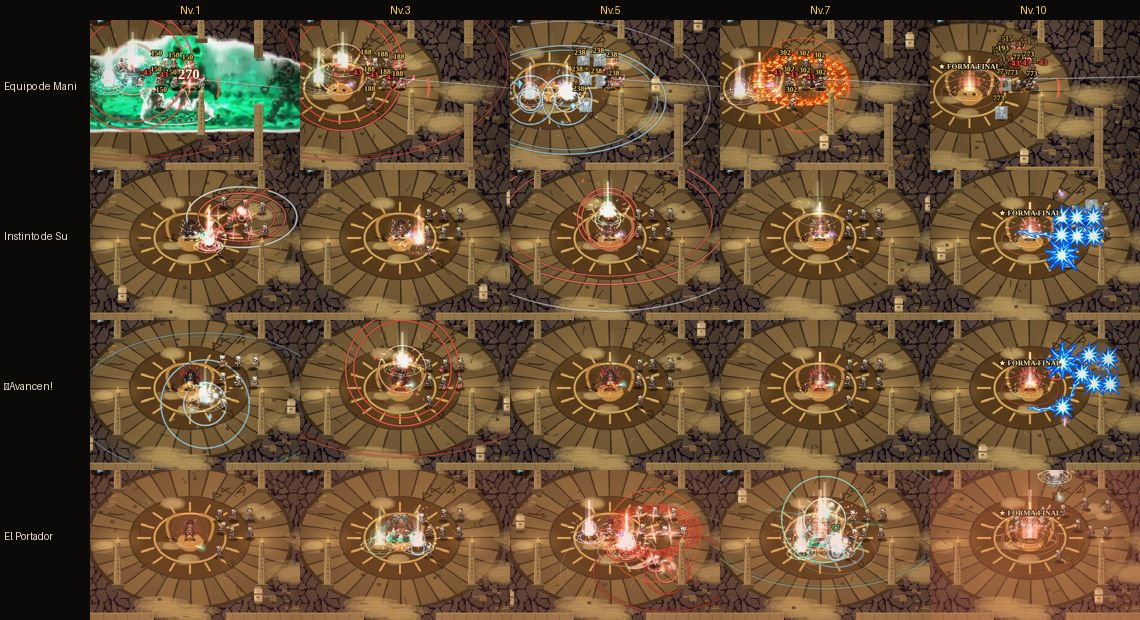
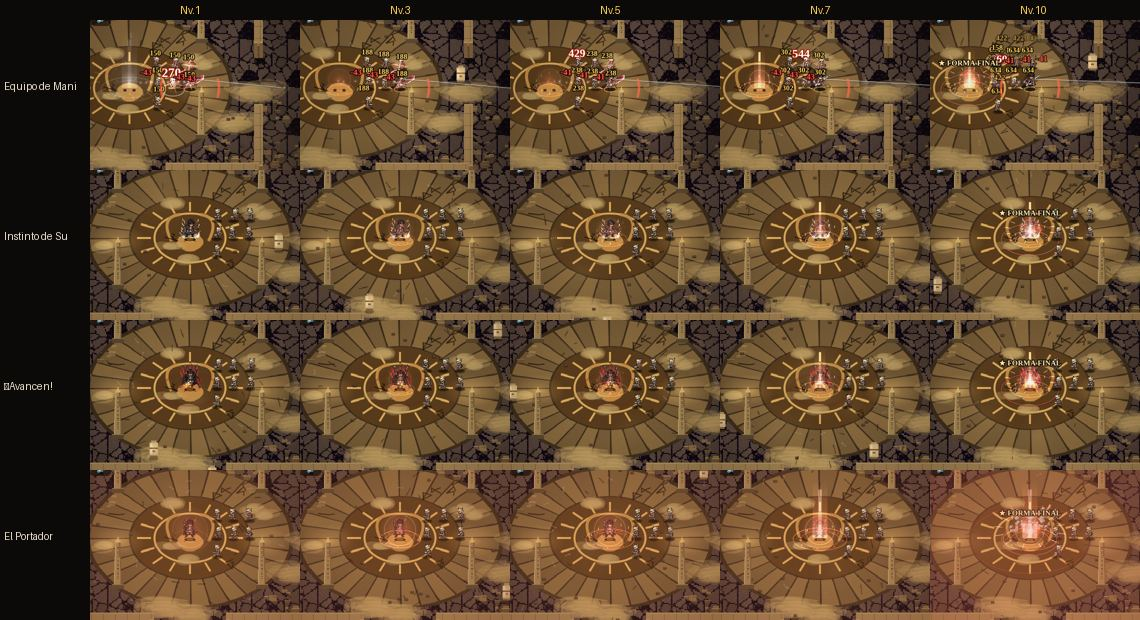
Review de dirección de arte + impacto que crece con el nivel
- LA_HORDA_ART_DIRECTION_REVIEW.md: veredicto con notas por área contra referencias comerciales,
  los 12 problemas más graves con arreglo y costo, crítica por arena y por campeón (playtest de las
  48 habilidades en Nv. 1/3/5/7/10), benchmarks, hoja de ruta P0/P1/P2 y lista de arte que falta.
- Capturas de la review en docs/playtest/review/ y hojas de evolución limpias (sin bots) en
  docs/playtest/evolucion/.
- Golpe de habilidad: anillo del color del campeón en el enemigo que crece por hito (tope de 6 por
  campeón cada 100 ms), para las habilidades cuyo efecto es el golpe y no el lanzamiento.
- Herramienta de playtest: saca a los bots aliados de las capturas.
- Regresión: t_func 91/91, t_camera 72/72, 13 suites de sistemas en verde; dibujo ~2,3 ms en la pelea final.

Claude-Session: https://claude.ai/code/session_01BvHcdVCqR9FGKyD6cnfJDt

diff --git a/js/systems/skill-evolution.js b/js/systems/skill-evolution.js
@@ -105,6 +105,18 @@ function skillEvoOnHit(src, e, dmg, opts){
   const ev = _evoActive(src, opts); if(!ev || ev.lvl < 3) return;
   e._evoHitBy = src; e._evoHitAt = runElapsedMs;
   const sig = evoSigFor(src, ev.sk);
+  // IMPACTO QUE CRECE CON EL NIVEL (playtest de evolución: las habilidades de golpe directo -Corte
+  // Sangrante, Triple Golpe, Flecha Perforante- se veían iguales del Nv.1 al 7 porque su efecto es
+  // el golpe, no el lanzamiento). Anillo del color del campeón en el enemigo: más grande y con más
+  // capas en cada hito. Un impacto por enemigo cada 180 ms (no satura con golpes múltiples).
+  const win = (runElapsedMs/100)|0; if(src._evoFxWin !== win){ src._evoFxWin = win; src._evoFxN = 0; } // tope: 6 impactos por campeón cada 100 ms
+  if(inView(e.x, e.y, 40) && (e._evoFxAt===undefined || runElapsedMs - e._evoFxAt > 180) && src._evoFxN++ < 6){
+    e._evoFxAt = runElapsedMs;
+    const rgb = hexToRgb(src.cls.glow||"#ffffff"), T = ev.lvl >= 10 ? 5 : ev.lvl >= 7 ? 4 : ev.lvl >= 5 ? 3 : 2, pr = src===player ? 1 : 0;
+    vfxShock(e.x, e.y - 10, 4, 14 + T*9, rgb, 200 + T*30, pr);
+    if(T >= 3) vfxBurst(e.x, e.y - 18, 3 + T*2, "t_" + (src.cls.glow||"#ffffff"), 90 + T*20, 300, 2.5, pr, -30, 2);
+    if(T >= 4) vfxShock(e.x, e.y - 10, 8, 20 + T*8, "255,255,255", 180, pr);
+  }
   // Nv.7 Resonancia: el enemigo ya tenía tu firma -> estalla (mira el estado ANTES de renovarlo)
   if(ev.lvl >= 7 && e.alive && evoHasSig(e, sig, src) && (src._evoResoAt===undefined || runElapsedMs - src._evoResoAt > EVO_CFG.resoIcd)){
     src._evoResoAt = runElapsedMs;

diff --git a/tools/playtest/shot_evolution.js b/tools/playtest/shot_evolution.js
@@ -24,7 +24,7 @@ const sleep = ms => new Promise(r => setTimeout(r, ms));
           for (const i of [0,1,2]) c.skillMastery[i].alloc = lvl; c.ultMastery.alloc = lvl;
           selectedClass = ck; currentArena = 'laberinto'; lobbyAllies = []; startRun(4); spawnTimer = 1e12; enemies.length = 0; levelDuration = 9e9;
           for (const id of ['arena-title-card','tut-panel','center-banner','boss-intro']) { const el=document.getElementById(id); if(el) el.style.display='none'; }
-          heroes.length = 1; // solo el campeón: nada tapa el efecto
+          heroes.length = 1; if (typeof allies!=='undefined') allies.length = 0; // solo el campeón: sin bots que lancen lo suyo
           player.energy = 9999; player.fx = 1; player.fy = 0;
           const foes = []; for (let i = 0; i < 7; i++){ const e = spawnEnemy('esqueleto', false); e.x = player.x + 90 + (i%3)*55; e.y = player.y - 60 + Math.floor(i/3)*60; e.hp = e.maxHp = 1e7; e.speed = 0; foes.push(e); }
           // evolución Nv.10: la 3ra lanzada sale potenciada -> lanzar 2 veces antes (sin capturar)

diff --git a/LA_HORDA_ART_DIRECTION_REVIEW.md b/LA_HORDA_ART_DIRECTION_REVIEW.md
@@ -1,0 +1,226 @@
+# LA HORDA — Review de Dirección de Arte (crítica fuerte)
+
+> Escrita como director del departamento de arte visual, con la vara de un juego que quiere salir como
+> indie y competir con juegos comerciales grandes, y después convertirse en un MOBA.
+> Basada en capturas reales del juego en celular horizontal (844×390, DPR 2): las 7 arenas, el jefe final,
+> los gólems, y **las 48 habilidades de los 12 campeones en Nv. 1/3/5/7/10** (hojas en
+> `docs/playtest/evolucion/`, herramienta `tools/playtest/shot_evolution.js`).
+> Capturas de esta review: `docs/playtest/review/`.
+
+---
+
+## 0. Veredicto en una página
+
+**Hoy La Horda es un prototipo con sistemas de juego comercial y una imagen de juego amateur.** El código
+tiene profundidad real (reacciones, roles, jefes con fases, red, evolución de habilidades), pero la
+pantalla no lo vende: en una captura cualquiera, un jugador nuevo no distingue en 2 segundos quién es él,
+qué le va a pegar y qué acaba de hacer su habilidad. Esa es la vara de Hades, Brotato o Wild Rift, y hoy
+no la pasamos.
+
+| Área | Nota (1–10) | Referencia comercial | Qué nos separa |
+|---|---|---|---|
+| Lectura del combate (figura/fondo) | **5** | Hades 9, Vampire Survivors 8 | Pisos con mucho detalle, enemigos del mismo valor que el piso, texto flotante encima de todo |
+| Coherencia de estilo de sprites | **4** | Dead Cells 9 | Densidades de píxel y luz distintas entre campeones, enemigos y jefes |
+| Identidad de arenas | **6** (antes 4) | Hades 9 | Mejoraron con muros y color propio, pero son pisos repetidos + utilería, no lugares pintados |
+| VFX de habilidades | **6** | Diablo IV 9, LoL 9 | El Mago y la Soporte escalan bien; el Asesino y la Cazadora casi no cambian del Nv.1 al 7 |
+| Jefes | **6** | Diablo IV 9 | Buenas mecánicas, pocas animaciones (poses estáticas que se deslizan), el ángel final es un recoloreo |
+| HUD / UI móvil | **4** | Wild Rift 9, Brawl Stars 9 | El HUD tapa ~27% de la pantalla; emojis como íconos; 3 familias tipográficas |
+| Animación | **4** | Hades 9 | Muchos enemigos con 1–4 cuadros; "respirar" hecho con escala; faltan anticipación e impacto por cuadro |
+| Preparación para MOBA | **3** | Wild Rift, Battlerite | Sin lenguaje de color aliado/enemigo, telegraphs sin dueño, siluetas que no se leen a distancia |
+
+**Lo que sí está a nivel y no hay que tocar:** el pipeline de recorte de hojas (ya probado con 12 campeones
+y 3 jefes), el sistema de evolución Nv.3/5/7/10, el pase de contraste de efectos (sombra + color + núcleo
+blanco), el Reino Micelial como arena pintada (es el modelo a seguir), la pantalla previa con el Hechicero
+y la estructura de lore de los Cuatro Guardianes.
+
+---
+
+## 1. Los 12 problemas más graves (ordenados por impacto)
+
+### P1 — No hay una regla de densidad de píxel: el juego parece hecho con piezas de juegos distintos
+**Qué veo.** El Hechicero y el Golem de Cuerpos tienen detalle de ilustración; los campeones son sprites
+chicos y limpios; los esqueletos del Laberinto tienen otra paleta y otro contorno; el Kraken y el Leviatán
+otra luz. En `arena_laberinto.jpg` los golems de piedra (enemigos) tienen más ruido que los campeones.
+**Por qué importa.** Es lo primero que un jugador de Steam/tienda nota en un tráiler: "assets mezclados".
+Dead Cells o Blasphemous se ven caros porque TODO respeta la misma grilla y el mismo contorno.
+**Arreglo.** Regla en `docs/ART_BIBLE.md`: 1 píxel de arte = 2 unidades de mundo para personajes y
+enemigos (jefes: la misma densidad, más grandes, nunca más detalle por píxel); contorno oscuro de 1 px en
+todo lo que se mueve; luz de arriba a la izquierda. Pasar los atlas existentes por el pipeline con
+reducción a esa grilla + cuantización de paleta por arena. **Costo:** 2–3 días de código (herramienta) +
+revisar hoja por hoja.
+
+### P2 — El HUD se come la pantalla de un celular
+**Qué veo.** Panel de vida arriba a la izquierda, ficha de la arena debajo, lista de aliados debajo de eso,
+barra de pausa/sonido, ulti arriba a la derecha y 5 botones grandes abajo a la derecha: **~27% de la
+pantalla** tapada (medido en 844×390). En la Fortaleza y el Micelial hay enemigos debajo de los paneles.
+**Referencia.** Wild Rift y Brawl Stars: ≤15% de HUD, paneles translúcidos, aliados como retratos chicos.
+**Arreglo.** (a) La ficha de la arena se vuelve un chip de una línea arriba al centro; (b) aliados = 3
+retratos de 28 px con anillo de vida; (c) botones de habilidad −20% de tamaño en arco alrededor del ataque;
+(d) la ulti se mueve al arco (hoy está duplicada: recuadro arriba + botón "ULT"). **Costo:** 1–2 días.
+
+### P3 — Texto flotante encima del combate
+**Qué veo.** "NIVEL 4 · Raíces Voraces ×3" en el medio de la pantalla sobre los personajes; "¡SIGILO!",
+"¡TRIPLE GOLPE!", "Necesitás una Marca de Duelo activa", "+VIDA MÁX", números de daño apilados
+(`-11 -15 -21`). En hordas grandes la mitad de la información es texto.
+**Referencia.** Hades: el nombre de la habilidad nunca aparece; el número de daño es chico y opcional.
+**Arreglo.** Carteles solo en la franja superior (18% de alto); nombres de habilidad fuera del mundo (el
+botón ya lo dice); números agregados por objetivo (uno que sube en vez de cinco); opción "números de daño:
+todos / críticos / ninguno". **Costo:** 1 día.
+
+### P4 — Las arenas son pisos con textura repetida, no lugares
+**Qué veo.** En las 6 arenas que no son el Micelial se nota la baldosa repetida y el mismo "plato" central
+(la rueda de sol del Laberinto, el pentagrama de la Infernal). Con los muros nuevos (este pase) ya hay
+estructura, pero sigue siendo utilería sobre un patrón.
+**Referencia.** Hades: cada cámara es una composición pintada con luz, recorrido y fondo.
+**Arreglo.** Repetir la receta del Micelial en todas: **un mapa pintado por arena** (1536×1024, vista 3/4)
++ capa de utilería separada + los muros de `arena-blocks.js` alineados con lo pintado. Pido el arte en la
+sección 6. **Costo de código:** medio día por arena cuando llega el arte.
+
+### P5 — No hay modelo de luz
+**Qué veo.** Todo está iluminado igual; lo único que "brilla" son los efectos aditivos, que al apilarse se
+queman a blanco. Los braseros de la Fortaleza y la lava de la Infernal no iluminan a nadie.
+**Arreglo.** Capa de luz por arena: viñeta multiplicativa + charcos de luz cálida alrededor de braseros,
+lava y cristales (sprites de luz baratos, ya existe `glowSprite`) + los personajes cerca de una fuente
+reciben un borde de ese color. Tope de brillo aditivo por zona. **Costo:** 2 días.
+
+### P6 — Animación insuficiente para el nivel de detalle del arte
+**Qué veo.** Muchos enemigos con 1–4 cuadros; el Golem de Cuerpos tiene 3 poses y se desliza; el
+Hechicero no tiene cuadro de "golpe recibido" propio; varios campeones "respiran" con escala.
+**Referencia.** Hades: 6–8 cuadros de caminar, anticipación (2 cuadros) → impacto (1 cuadro sostenido) →
+recuperación. Sin eso, el golpe no pesa aunque haya hit-stop.
+**Arreglo.** Lista priorizada de animaciones (sección 6) y, mientras tanto, regla de código: todo ataque
+de jefe tiene 1 cuadro de anticipación sostenido ≥120 ms (el sistema de telegraph ya lo permite).
+
+### P7 — Enemigos que se pierden en su propio piso
+**Qué veo.** Esqueletos rojizos sobre la lava de la Infernal (`arena_infernal.jpg`); demonios oscuros sobre
+el empedrado oscuro de la Fortaleza; hongos violeta sobre el piso violeta del Micelial.
+**Arreglo.** Borde de 1 px claro (o de color complementario al piso) para enemigos en arenas oscuras,
+calculado por arena como ya hacemos con `FX_CONTRAST_UNDER`. Sombra de contacto más oscura en pisos claros
+(Gélida). **Costo:** medio día.
+
+### P8 — El lenguaje de color de los avisos no está unificado (bloqueante para MOBA)
+**Qué veo.** Los avisos de jefe usan la paleta de cada jefe (dorado, celeste, verde, violeta); algunas
+habilidades del jugador dejan anillos rojos (Asesino, Grito Provocador) que se confunden con peligro.
+**Referencia.** League of Legends / Wild Rift: rojo = me daña, azul/verde = aliado, siempre.
+**Arreglo.** Regla: **peligro enemigo = relleno rojo-naranja con borde que late**, el color temático del
+jefe solo como detalle interior; habilidades del jugador **nunca** en rojo puro (se desplazan a su color de
+campeón). En PvP: aliados celeste, enemigos rojo, sin excepciones. **Costo:** 1 día + revisar jefes.
+
+### P9 — Íconos con emoji y tres tipografías
+**Qué veo.** Botones con 🩸 ⚔ 🌀 ☾ ◈ ✚; cada sistema operativo los dibuja distinto, y se ven baratos.
+Mezcla de *Press Start 2P*, *VT323* y una serif en el HUD.
+**Arreglo.** Set de 48 íconos de habilidad a medida (pedido en sección 6) + una tipografía de display pixel
+y una legible para texto largo. **Costo de código:** medio día.
+
+### P10 — El Asesino y la Cazadora no se vuelven más espectaculares al subir de nivel
+**Qué veo (hojas `guerrero.jpg`, `cazadora.jpg`).** Corte Sangrante, Triple Golpe, Flecha Perforante y
+Trampa del Bosque se ven prácticamente iguales del Nv.1 al Nv.5. El Mago (`mago.jpg`), la Soporte
+(`soporte.jpg`) y el Nigromante (`nigromante.jpg`, la Plaga) sí escalan de forma clara.
+**Qué hice en este pase.** Firma de nivel en TODO lanzamiento (sello → chispas → columna → corona),
+impacto en el enemigo que crece con el nivel, capas replicadas en `tieredBurstVFX` (antes el cooperativo
+no las veía) y sello de buffs más fuerte. Mejora visible, pero **no alcanza**: esas 4 habilidades
+necesitan su propio arte por hito (ej. el Corte deja una cicatriz de sangre en el piso en Nv.5 y un tajo
+doble en Nv.7; la Flecha Perforante deja estela y en Nv.7 se parte en 3). **Costo:** 1–2 días de código
+por campeón + arte.
+
+### P11 — El jefe final no tiene arte propio
+**Qué veo (`final_angel.jpg`).** El Ángel Corrompido funciona (alas dibujadas, cristales orbitando,
+recoloreo carmesí), pero es el sprite del Hechicero teñido. Es el momento más importante del juego.
+**Arreglo.** Arte real (HS-01b en `LA_HORDA_COMBAT_MISSING_ASSETS.md`). Las imágenes del ángel con alas y
+del ángel corrompido que mencionaste **no llegaron**: mandalas y las integro sobre el mismo sistema.
+
+### P12 — Paneles y menús genéricos
+Pantallas de inventario, tienda y talentos con cajas marrones planas y el mismo borde. Para un juego que
+quiere vender cosméticos y temporadas, la UI de colección es la vidriera. Pedido: un kit de UI (marcos por
+rareza, fondos por pantalla, botones con estado) antes de la versión de tienda.
+
+---
+
+## 2. Crítica por arena (con lo hecho en este pase)
+
+| Arena | Identidad hoy | Lo bueno | Lo que falla | Próximo paso |
+|---|---|---|---|---|
+| **Ruinas del Bosque** | Media | Menhires, raíces, ahora muros de piedra con musgo y bordes rotos | Piso de baldosa repetida, verde uniforme sin luz | Mapa pintado con claro de bosque, rayos de luz entre árboles |
+| **Acuática** | Media-alta | Corrientes con flechas que ahora se leen como agua (antes parecían letras "L"), muros de coral | Piso de piedra oscura demasiado contrastado; los corales de fondo parecen recortes | Cáusticas de luz animadas en el piso; paleta teal más estrecha |
+| **Fortaleza** | Media | Empedrado rehecho (antes era ruido), banderas, lava abajo | Enemigos oscuros sobre piso oscuro; demasiado marrón | Luz de braseros (P5) y borde claro en enemigos (P7) |
+| **Micelial** | **Alta** | Mapa pintado; gradación nueva: el agua bioluminiscente es el único color vivo (`micelial_antes_despues.jpg`) | Sigue siendo el más cargado; el violeta de la infección tapa enemigos violeta | Reducir detalle en caminos jugables del mapa (pedido de arte) |
+| **Gélida** | Media-alta | Nieve + estalagmitas, muros de hielo nuevos | Piso claro que quema los efectos (compensado con sombra de contraste) | Viento/ventisca como capa, no como partículas sueltas |
+| **Laberinto** | Media | Muros reales (ya existían), obeliscos | El plato de sol central domina todas las capturas; mismo tono beige que los personajes | Bajar contraste del plato, variar el piso por zona del laberinto |
+| **Infernal** | Media-alta | Grietas de lava, pentagrama, pozos de lava ahora orgánicos (antes cuadrados), muros de obsidiana | Enemigos rojos sobre rojo; el pentagrama compite con los avisos de jefe | Borde claro en enemigos; avisos de jefe fuera del rojo del piso (P8) |
+
+---
+
+## 3. Crítica de las habilidades (playtest con talentos al máximo)
+
+Método: cada habilidad lanzada sola contra 7 enemigos quietos, captura a los ~260 ms, en Nv. 1/3/5/7/10
+(en Nv.10 se lanza 3 veces para ver la Forma Final). Hojas en `docs/playtest/evolucion/`.
+
+| Campeón | Escala visual 1→10 | Mejor habilidad | Peor | Nota |
+|---|---|---|---|---|
+| Mago | **Muy buena** | Cadena de Relámpagos (de 3 saltos a una tormenta) | Nova de Escarcha (el anillo casi no crece) | Modelo a seguir |
+| Soporte | **Muy buena** | Bendición de Guerra / Escudo Sagrado (sellos que crecen) | — | Legible y elegante |
+| Nigromante | Buena | Plaga de los Condenados (la nube crece mucho) | Gólem de Carne (depende de cadáveres) | Ahora con 4 gólems elementales |
+| Tanque | Buena (tras este pase) | Grito Provocador (anillos + columna + corona) | Embestida (se mueve, poco rastro) | Grito de Guerra mejoró con el sello |
+| Libertador | Buena | Bayoneta | Granaderos (siempre igual) | — |
+| Segador | Media | Tajo | Último Aliento (siempre igual) | — |
+| Profeta | Media | Danza del Augurio | Visión del Inmortal | — |
+| Eren | Media | Equipo de Maniobras | ¡Avancen! | — |
+| Musashi | Media | Paso Fantasma | Último Duelo (sin marca no pasa nada) | — |
+| Axiom | Media | Error 404 | Force Quit (tiñe la pantalla igual en todos los niveles) | — |
+| Cazadora | **Baja** | Lluvia de la Cazadora (crece bien) | Flecha Perforante, Trampa | Ver P10 |
+| Asesino | **Baja** | Trampa de Área | Corte Sangrante, Triple Golpe, Pestilencia | Ver P10 |
+
+Otros hallazgos del playtest:
+- **Bug grave corregido:** los gólems de Fuego y de Hielo **nunca se aplicaban** (las banderas de talento
+  con texto se guardaban como `true`). Ahora sí, con su arte real.
+- Cuando una habilidad falla por requisito (Último Duelo sin marca, Gólem sin cadáveres) igual se ve el
+  destello de lanzamiento: debería verse un "no" (destello gris + sonido de negación).
+- La Forma Final (Nv.10) se anuncia con texto; debería anunciarse con el efecto (ya hay corona y columna).
+
+---
+
+## 4. Benchmarks y cómo usarlos
+
+| Juego | Qué copiar (la idea, no el arte) |
+|---|---|
+| **Hades** | Composición de cada cámara, figura/fondo, animación con anticipación e impacto, UI mínima |
+| **Diablo IV / Diablo II Resurrected** | Presentación de jefes (entrada, cambio de fase), ángeles y demonios, lenguaje de luz y sombra |
+| **Vampire Survivors / Brotato** | Legibilidad con 200 enemigos: enemigos de valor medio, jugador y proyectiles con valor extremo |
+| **Wild Rift / Brawl Stars** | HUD móvil (≤15%), botones en arco, lenguaje de color aliado/enemigo, siluetas legibles a distancia |
+| **Battlerite / Eternal Return** | VFX de MOBA vista cenital: cada habilidad tiene forma clara en el piso antes y después del golpe |
+
+---
+
+## 5. Hoja de ruta visual (prioridades)
+
+**P0 — antes de mostrarlo a nadie (1–2 semanas de código + arte pedido):**
+1. HUD móvil a ≤15% (P2) y texto fuera del combate (P3).
+2. Lenguaje de color de avisos (P8) y borde claro en enemigos por arena (P7).
+3. Arte del Ángel Corrompido (HS-01b) y de los gólems Tormenta/Plaga (NG-01).
+4. Íconos de habilidades a medida (P9).
+
+**P1 — para el lanzamiento indie:**
+5. Mapas pintados por arena (P4) y capa de luz (P5).
+6. Regla de densidad de píxel y reproceso de atlas (P1).
+7. Evolución propia para Asesino y Cazadora (P10).
+8. Animaciones de jefes (Golem de Cuerpos, transformaciones HS-02/HS-03).
+
+**P2 — camino a MOBA:**
+9. Colores de equipo obligatorios en todo efecto; presupuesto de VFX por campeón (nadie tapa la pantalla).
+10. Siluetas legibles a 1/2 de zoom; cámara PvP; indicador de dueño en cada aviso.
+11. Kit de UI de colección/tienda (P12).
+
+---
+
+## 6. Lo que necesito de vos (arte), en orden
+
+1. **Ángel con alas y Ángel Corrompido** (las imágenes que mencionaste; no llegaron). Prompt HS-01b.
+2. **Gólem animado y sus especializaciones elementales** (tampoco llegaron). Prompt NG-01.
+3. **Mapa pintado por arena** (Bosque, Acuática, Fortaleza, Gélida, Laberinto, Infernal), 1536×1024, vista 3/4,
+   con los caminos jugables más lisos que los bordes (el Micelial es la referencia, pero con menos detalle en el centro).
+4. **48 íconos de habilidad** (12 campeones × 4), 64×64, fondo transparente, silueta legible a 32 px.
+5. **Animaciones del Golem de Cuerpos** y **transformaciones del final** (HS-02, HS-03).
+6. **Tileset de muros por arena** (hoy los muros son procedurales: funcionan, pero con arte real ganan mucho).
+
+Formato: hoja PNG con fondo transparente o damero (ya tengo recortador), cuadros del mismo tamaño, una fila
+por animación.

diff --git a/LA_HORDA_NEXT_SPRINTS_AUDIT.md b/LA_HORDA_NEXT_SPRINTS_AUDIT.md
@@ -94,7 +94,14 @@ mismo tamaño y en filas por animación, como la hoja del Hechicero que mandaste
   (por eso la estrella de impacto se dibuja local).
 - Sin paso de build: el peso de las imágenes llega entero al celular; conviene la carga diferida (Sprint 7).
 
-## 5. Lo que se hizo en este pase (para referencia)
+## 5. Pase siguiente (arenas, lore, final, Nigromante, evolución, review)
+- Review de dirección de arte completa: `LA_HORDA_ART_DIRECTION_REVIEW.md` (12 problemas priorizados, notas por
+  área, crítica por arena y por campeón, benchmarks, hoja de ruta P0/P1/P2 y lista de arte pedido).
+- Lore canónico: `LA_HORDA_LORE.md` (Cuatro Guardianes, cristales, arco del Hechicero).
+- Muros por arena, pisos con menos ruido, Micelial graduado, jefe final con todas las habilidades,
+  gólem elemental del Nigromante, firma de nivel en todas las habilidades, modo `?devxp=N`.
+
+## 6. Lo que se hizo en el pase anterior (para referencia)
 - **Final de campaña:** Hechicero Supremo subjefe (nivel 9 de la Infernal; huye al caer) y jefe final en 3 formas
   (Hechicero → Golem de Cuerpos → Demonio Mayor), con el arte de su hoja. Test `tools/items/t_hechicero.js`.
 - **Pantalla previa** con el Hechicero angelical y la ficha clara de cada arena (solo; en cooperativo se omite).
